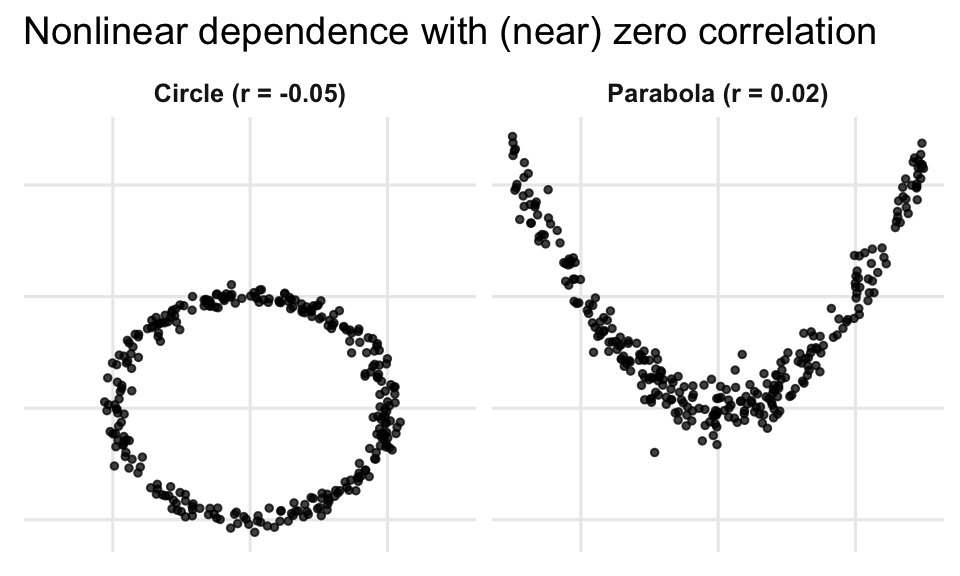
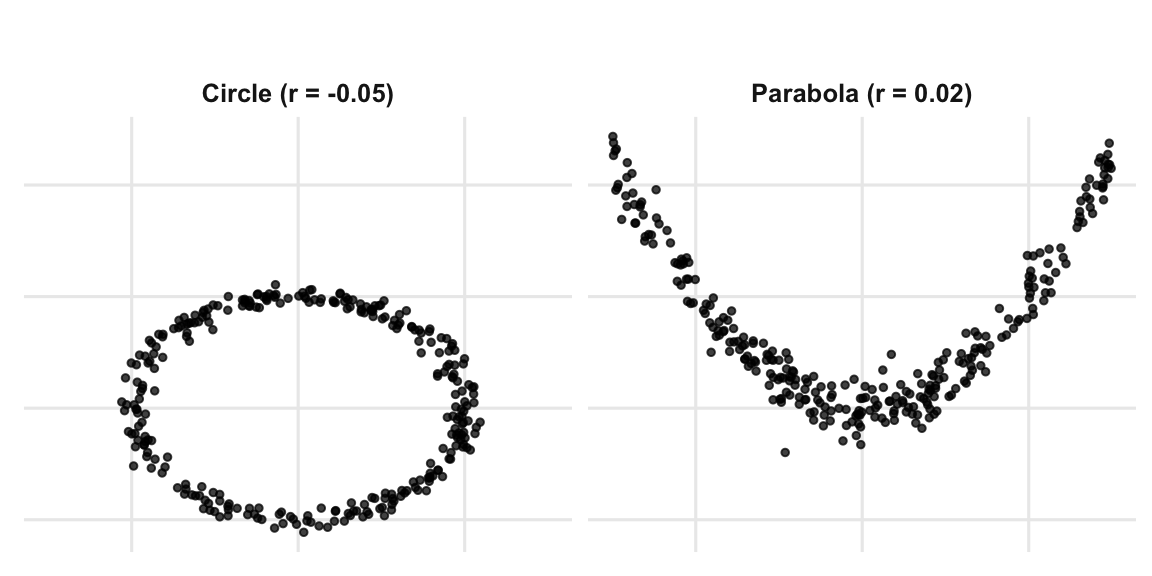
updated 01-intro.qmd

diff --git a/docs/ch1/01-intro.html b/docs/ch1/01-intro.html
@@ -1363,45 +1363,23 @@ Other non-linear (or curved) relationships may exist among variables even if <sp
 <li><p>A population correlation of zero means <em>no linear association</em>,<br>
 but it does not necessarily imply independence.</p></li>
 </ul>
-<div class="callout callout-style-default callout-note callout-titled" title="Correlation Measures Linear Association">
-<div class="callout-header d-flex align-content-center">
-<div class="callout-icon-container">
-<i class="callout-icon"></i>
-</div>
-<div class="callout-title-container flex-fill">
-Correlation Measures Linear Association
-</div>
-</div>
-<div class="callout-body-container callout-body">
 <div class="cell" data-layout-align="center" data-fig.margin="false">
 <div class="cell-output-display">
 <div class="quarto-figure quarto-figure-center">
 <figure class="figure">
-<p><img src="01-intro_files/figure-html/unnamed-chunk-19-1.png" class="img-fluid quarto-figure quarto-figure-center figure-img" width="768"></p>
+<p><img src="01-intro_files/figure-html/unnamed-chunk-19-1.png" class="img-fluid figure-img" width="768"></p>
+<figcaption>Correlation Measures Linear Association</figcaption>
 </figure>
 </div>
 </div>
 </div>
-</div>
-</div>
-<div class="callout callout-style-default callout-note callout-titled" title="Nonlinear Dependence with (Near) Zero Correlation">
-<div class="callout-header d-flex align-content-center">
-<div class="callout-icon-container">
-<i class="callout-icon"></i>
-</div>
-<div class="callout-title-container flex-fill">
-Nonlinear Dependence with (Near) Zero Correlation
-</div>
-</div>
-<div class="callout-body-container callout-body">
 <div class="cell" data-layout-align="center" data-fig.margin="false">
 <div class="cell-output-display">
 <div class="quarto-figure quarto-figure-center">
 <figure class="figure">
-<p><img src="01-intro_files/figure-html/unnamed-chunk-20-1.png" class="img-fluid quarto-figure quarto-figure-center figure-img" width="480"></p>
+<p><img src="01-intro_files/figure-html/unnamed-chunk-20-1.png" class="img-fluid figure-img" width="576"></p>
+<figcaption>Nonlinear Dependence with (Near) Zero Correlation</figcaption>
 </figure>
-</div>
-</div>
 </div>
 </div>
 </div>
@@ -1728,7 +1706,7 @@ r_{p1} &amp; r_{p2} &amp; \cdots &amp; 1
 <pre><code>    z &lt;- data.frame(z1="1", z2=3, z3=5)
     z[1,2] + z[1,3]</code></pre>
 <div class="callout callout-style-default callout-tip callout-titled" title="View Solution">
-<div class="callout-header d-flex align-content-center" data-bs-toggle="collapse" data-bs-target=".callout-11-contents" aria-controls="callout-11" aria-expanded="false" aria-label="Toggle callout">
+<div class="callout-header d-flex align-content-center" data-bs-toggle="collapse" data-bs-target=".callout-9-contents" aria-controls="callout-9" aria-expanded="false" aria-label="Toggle callout">
 <div class="callout-icon-container">
 <i class="callout-icon"></i>
 </div>
@@ -1737,7 +1715,7 @@ View Solution
 </div>
 <div class="callout-btn-toggle d-inline-block border-0 py-1 ps-1 pe-0 float-end"><i class="callout-toggle"></i></div>
 </div>
-<div id="callout-11" class="callout-11-contents callout-collapse collapse">
+<div id="callout-9" class="callout-9-contents callout-collapse collapse">
 <div class="callout-body-container callout-body">
 <ul>
 <li><p><code>x</code> is bound to a vector of characters instead of numerical values. The functions <code>max</code>, <code>sort</code>, <code>sum</code> should take numerical values as input, so the values in <code>x</code> are first converted from characters to numerical values implicitly and then the functions apply to these incorrect numerical values</p></li>
@@ -2038,7 +2016,7 @@ b = rnorm(n,1)</code></pre>
 <li>In the time series plot, there seems to be not enough space to hold the x-axis labels. One way to avoid this is to rotate the axis labels. Please rotate all the time labels 45 degree.</li>
 </ol>
 <div class="callout callout-style-default callout-tip callout-titled" title="View Solution">
-<div class="callout-header d-flex align-content-center" data-bs-toggle="collapse" data-bs-target=".callout-12-contents" aria-controls="callout-12" aria-expanded="false" aria-label="Toggle callout">
+<div class="callout-header d-flex align-content-center" data-bs-toggle="collapse" data-bs-target=".callout-10-contents" aria-controls="callout-10" aria-expanded="false" aria-label="Toggle callout">
 <div class="callout-icon-container">
 <i class="callout-icon"></i>
 </div>
@@ -2047,7 +2025,7 @@ View Solution
 </div>
 <div class="callout-btn-toggle d-inline-block border-0 py-1 ps-1 pe-0 float-end"><i class="callout-toggle"></i></div>
 </div>
-<div id="callout-12" class="callout-12-contents callout-collapse collapse">
+<div id="callout-10" class="callout-10-contents callout-collapse collapse">
 <div class="callout-body-container callout-body">
 <div class="cell">
 <details class="code-fold">
@@ -2231,7 +2209,7 @@ View Solution
 <li>Generate scatterplots of <code>PM2.5</code> against <code>latitude</code> and <code>longitude</code> in two different panels</li>
 </ol>
 <div class="callout callout-style-default callout-tip callout-titled" title="View Solution">
-<div class="callout-header d-flex align-content-center" data-bs-toggle="collapse" data-bs-target=".callout-13-contents" aria-controls="callout-13" aria-expanded="false" aria-label="Toggle callout">
+<div class="callout-header d-flex align-content-center" data-bs-toggle="collapse" data-bs-target=".callout-11-contents" aria-controls="callout-11" aria-expanded="false" aria-label="Toggle callout">
 <div class="callout-icon-container">
 <i class="callout-icon"></i>
 </div>
@@ -2240,7 +2218,7 @@ View Solution
 </div>
 <div class="callout-btn-toggle d-inline-block border-0 py-1 ps-1 pe-0 float-end"><i class="callout-toggle"></i></div>
 </div>
-<div id="callout-13" class="callout-13-contents callout-collapse collapse">
+<div id="callout-11" class="callout-11-contents callout-collapse collapse">
 <div class="callout-body-container callout-body">
 <div class="cell">
 <details class="code-fold">
